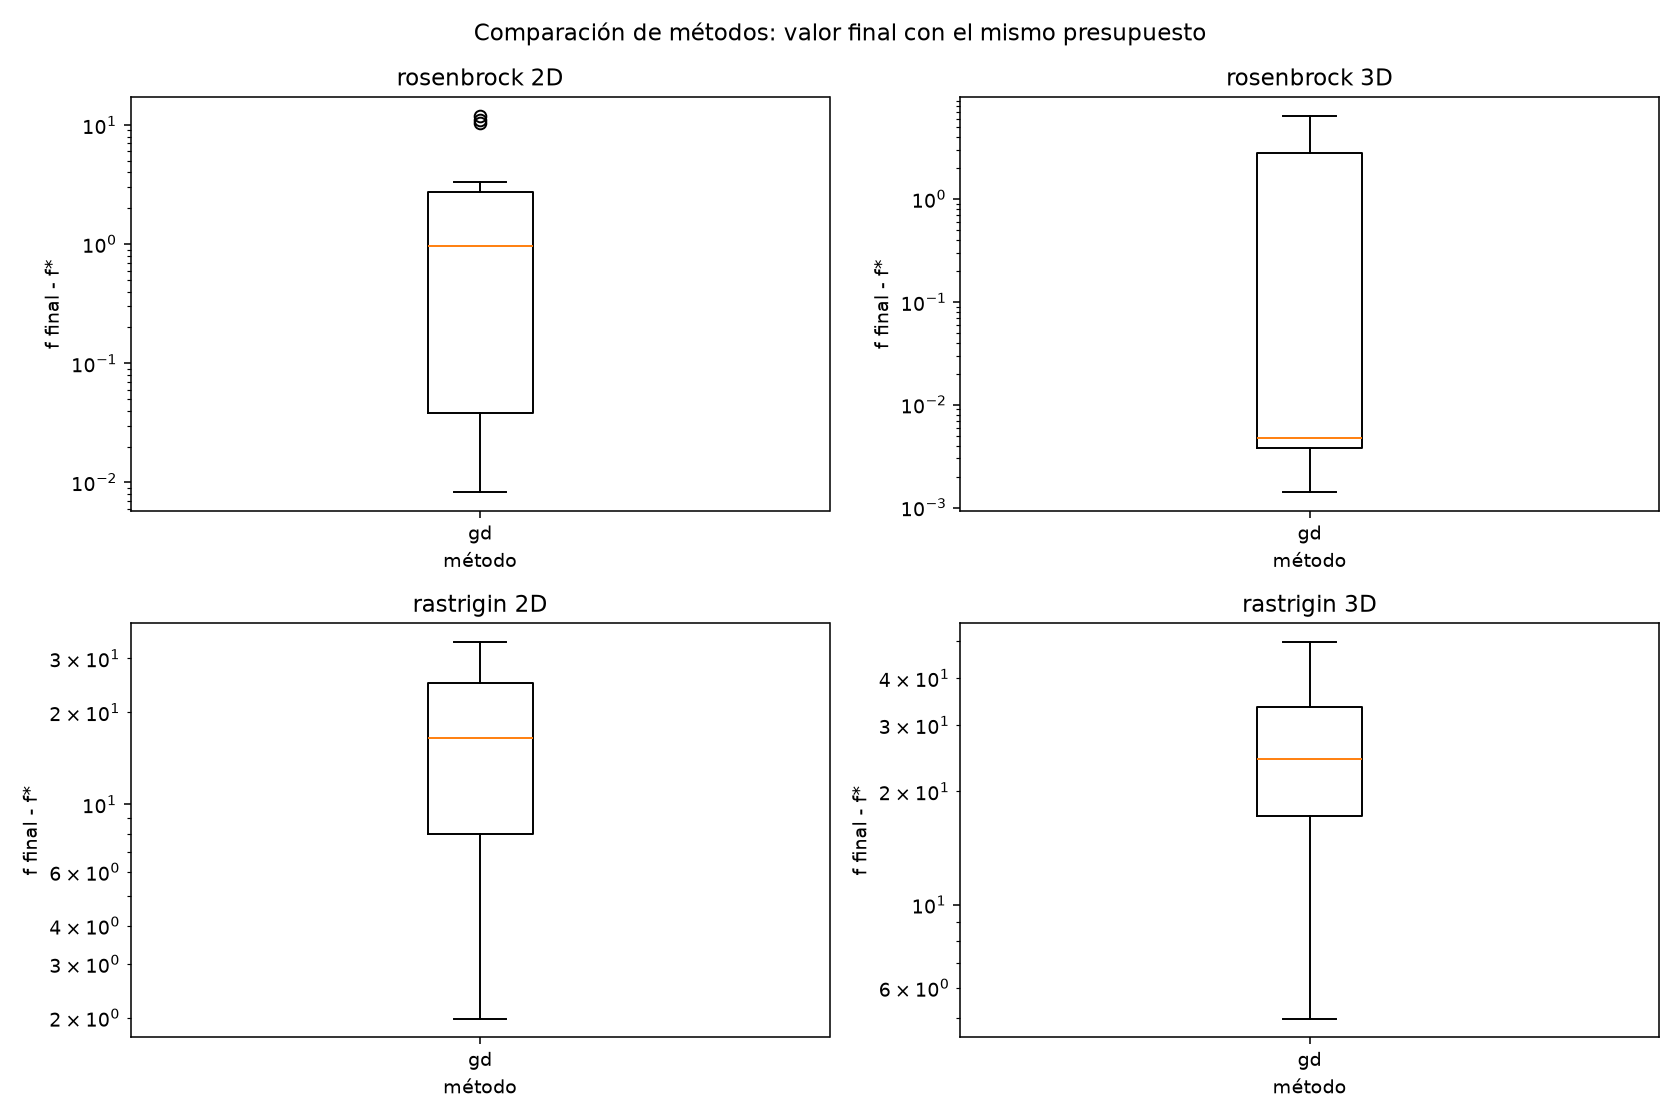
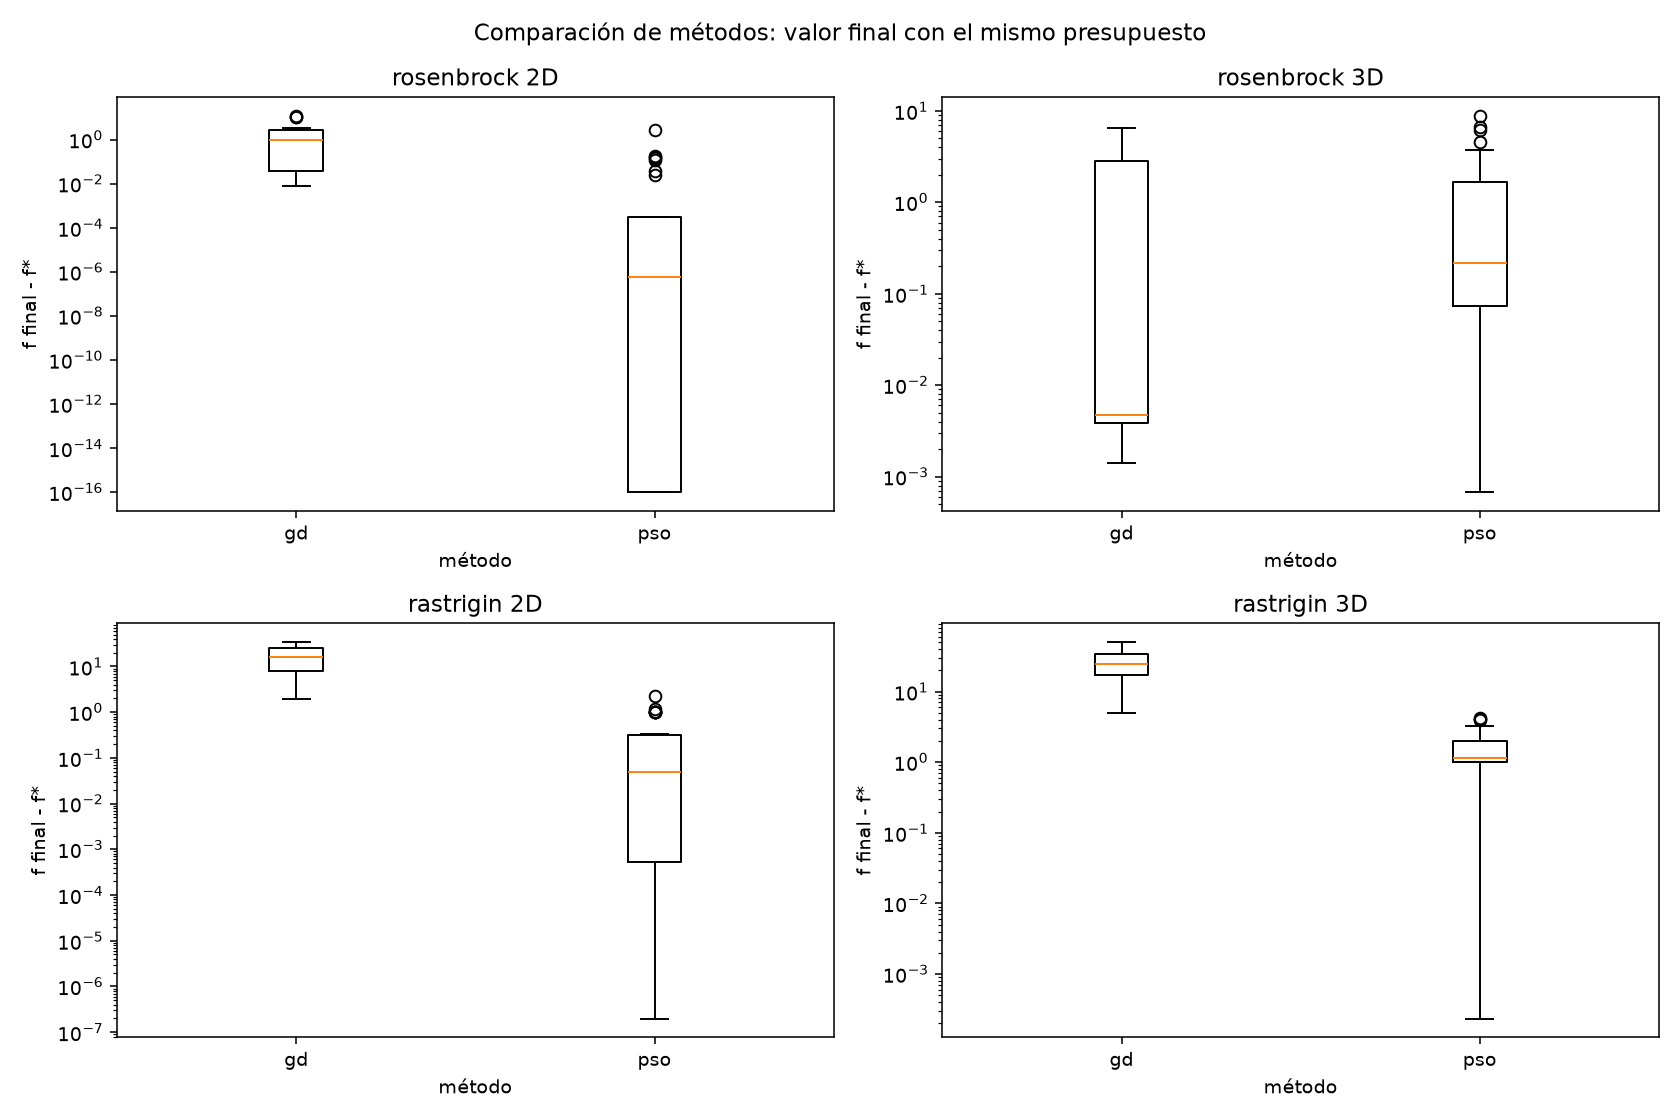
Suma el PSO a la comparación completa
- src/methods.py: un solo registro de métodos (estaba definido dos veces).
- configs/compare.yaml: PSO con los hiperparámetros del integrante 2
  (los de compare_demo.yaml), pendientes de su barrido.
- results/compare y figures/compare regenerados; las filas del descenso
  por gradiente no cambian.

diff --git a/src/methods.py b/src/methods.py
@@ -6,18 +6,11 @@ a METHODS. experiments/compare.py lo toma de aquí por su nombre en el YAML.
 from __future__ import annotations
 
 from .gradient_descent import run_gd
-
-METHODS = {
-    "gd": run_gd,
-    # "ea": run_ea,    # algoritmo evolutivo (integrante 2)
-    # "pso": run_pso,  # enjambre de partículas (integrante 2)
-    # "de": run_de,    # evolución diferencial (integrante 2)
-}
-
-
 from .particle_swarm import run_pso
 
 METHODS = {
     "gd": run_gd,
     "pso": run_pso,
+    # "ea": run_ea,    # algoritmo evolutivo (integrante 2)
+    # "de": run_de,    # evolución diferencial (integrante 2)
 }
